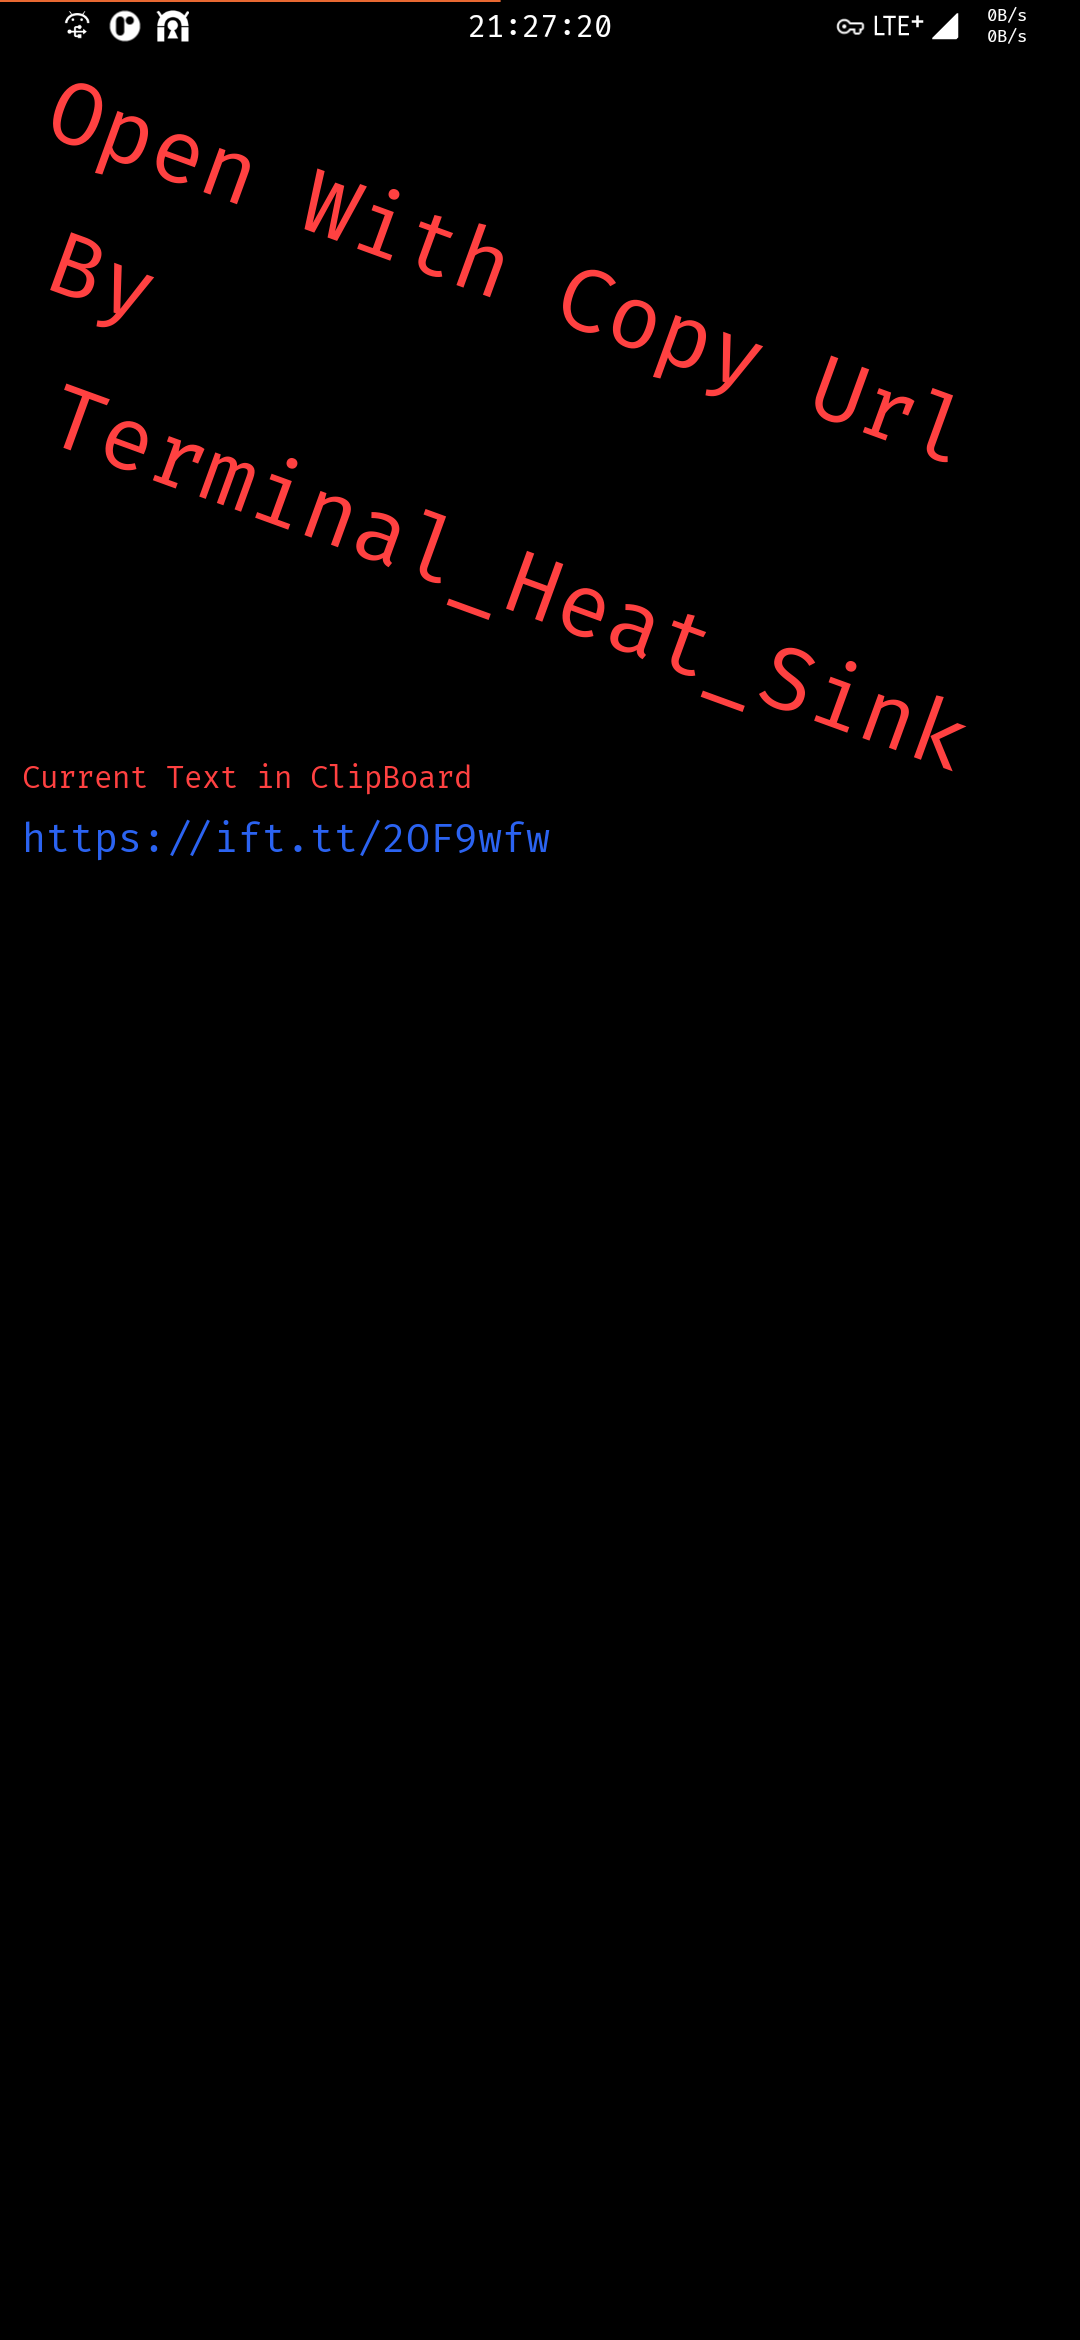
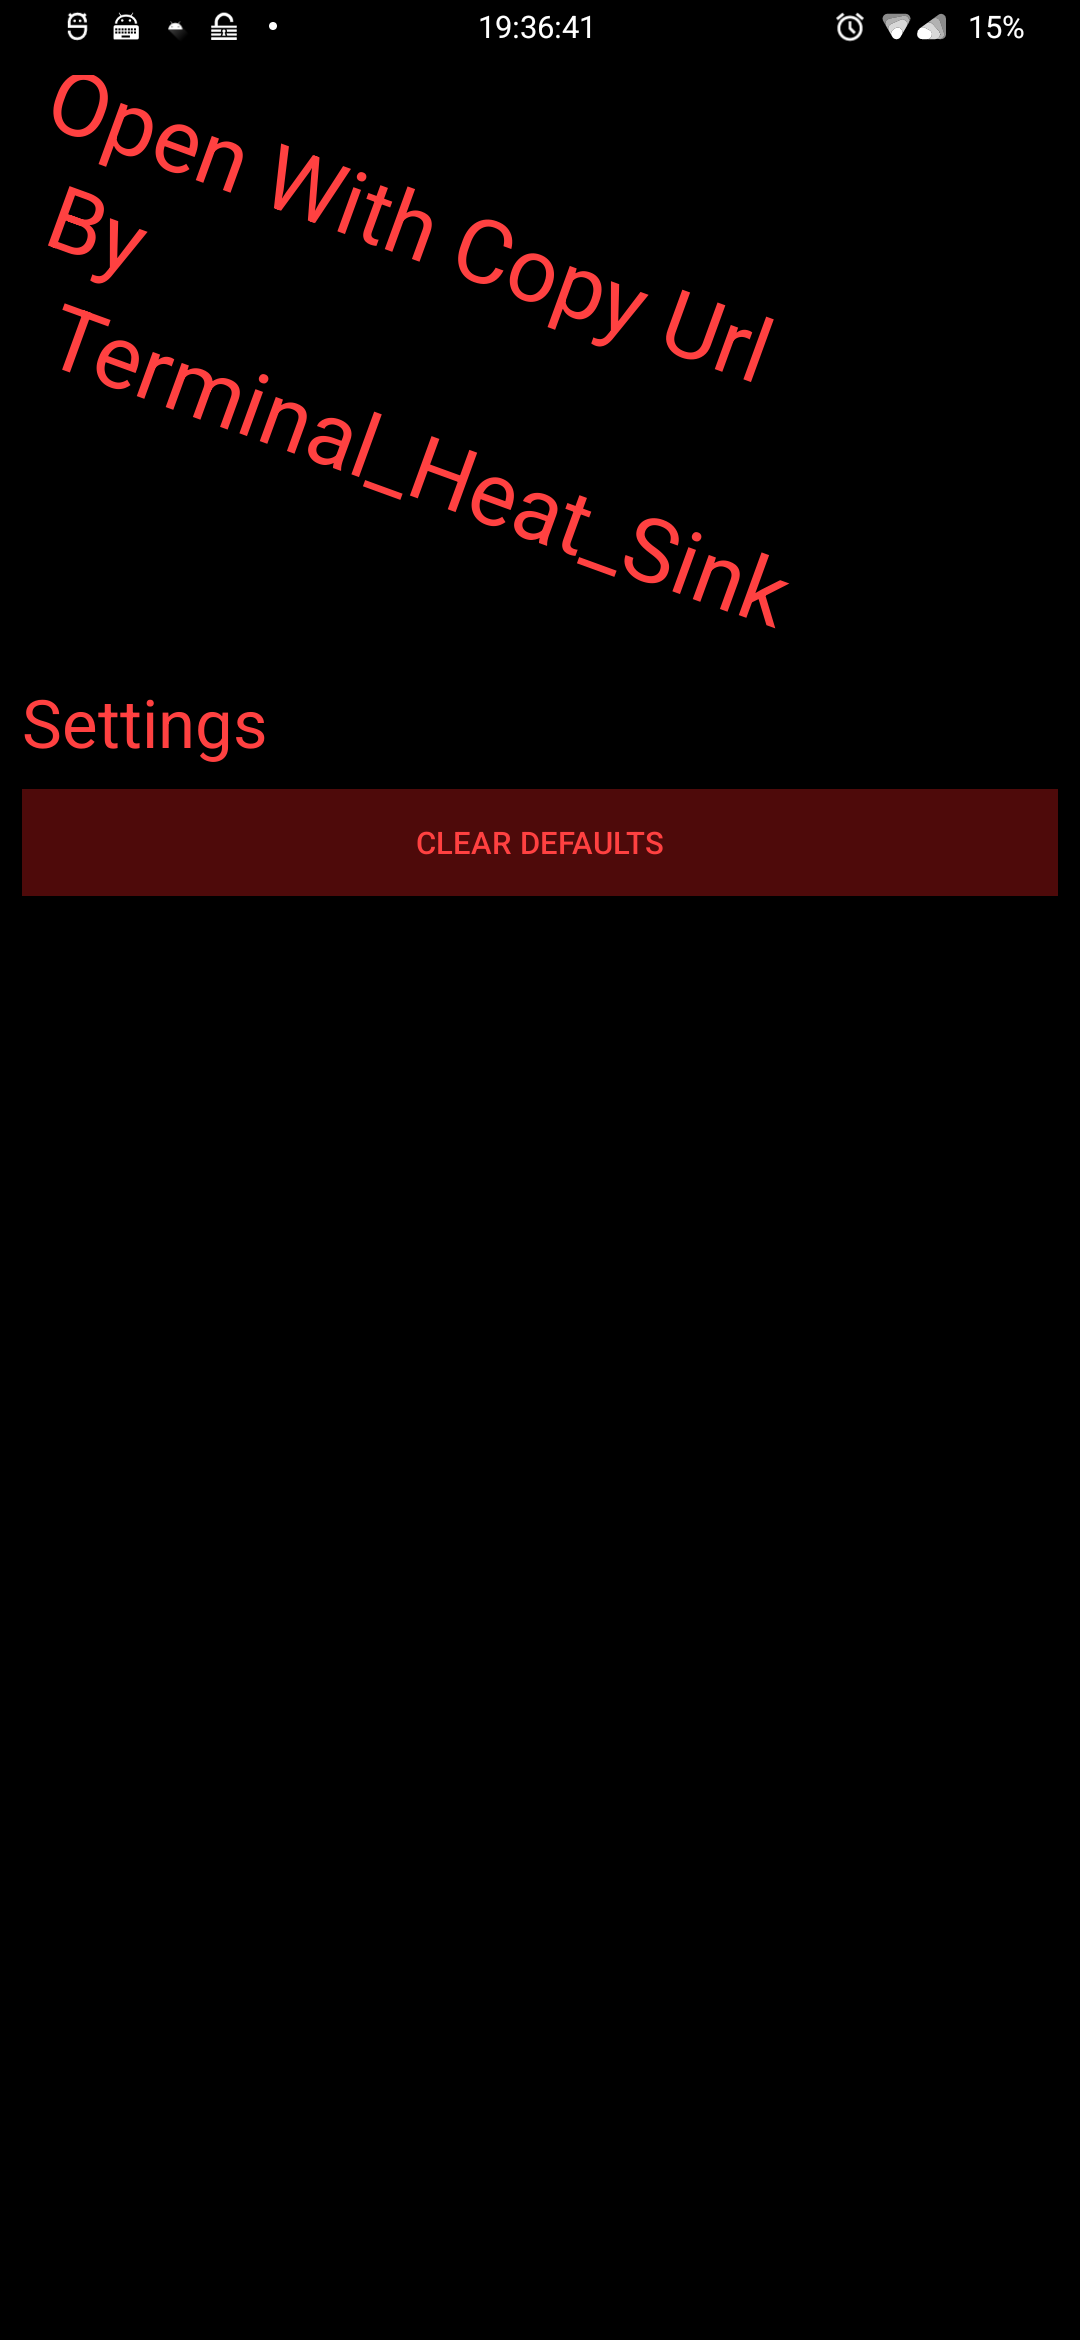
updated readme and screenshots for the youtube detect feature

diff --git a/README.md b/README.md
@@ -3,9 +3,15 @@ Copies Supplied url directly to clipboard when opened with open with.
 
 This was created because some apps dont let you copy links to clipboard instead they launch a browser. You can select this app instead of firefox for example and it will copy the link to your clipboard.
 
-If you open this app without using the open with thing in android it will just show you what is currently in your clipboard and allow you to edit it.
+## Youtube Link detector
+It will detect youtube links and allow you to open them in youtube or vanced. see screenshot 4 bellow. If you don't need this just press "Never show this again" and the app will work as before.
+
+I Added this because android 12 handles youtube links very poorly. It either opens them straight away or not at all. Sometimes I want to open the youtube link in a browser for example.
+
+To reset this just open this app from your launcher and click the "Clear Defaults"
 
 ## screenshots
 ![screenshot 1](/.screenshots/1.png)
 ![screenshot 2](/.screenshots/2.png)
 ![screenshot 3](/.screenshots/3.png)
+![screenshot 4](/.screenshots/4.png)
